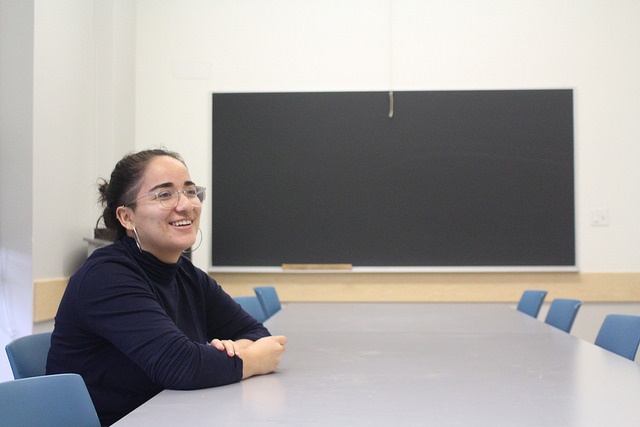
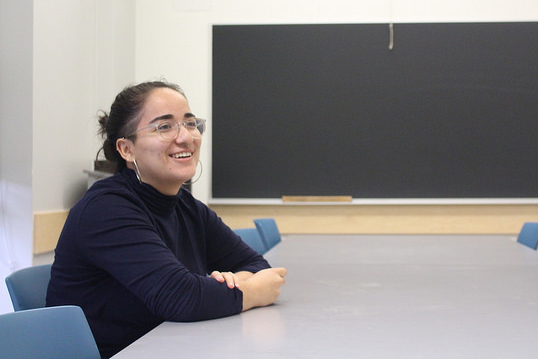
mobile responsiveness, small changes

diff --git a/src/scss/main.scss b/src/scss/main.scss
@@ -26,12 +26,12 @@
   max-width: 600px;
   height: 100%;
   overflow: hidden;
-  margin: 40px auto 0px;
+  margin: 20px auto 0px;
 
   .image {
     position: relative;
-    width: 250px;
-    height: 200px;
+    width: 270px;
+    height: 180px;
     overflow: hidden;
     float: right;
     margin-left: 20px;
@@ -68,16 +68,11 @@
     font-size: 1em;
   }
 
-  .line {
-    width: 100%;
-    height: 0px;
-    border: 0.5px solid black;
-  }
-
   @media screen and (max-width : 650px) {
     .image {
-      width: 400px;
-      height: 300px;
+      width: 100%;
+      box-sizing: border-box;
+      padding-bottom: 66%;
       margin: 20px auto 0;
       display: block;
       float: none;
@@ -98,12 +93,12 @@
   max-width: 600px;
   height: 100%;
   overflow: hidden;
-  margin: 40px auto 0px;
+  margin: 40px auto 40px;
 
   .image {
     position: relative;
-    width: 250px;
-    height: 200px;
+    width: 270px;
+    height: 180px;
     overflow: hidden;
     margin-right: 20px;
     margin-bottom: 5px;
@@ -140,16 +135,11 @@
     font-size: 1em;
   }
 
-  .line {
-    width: 100%;
-    height: 0px;
-    border: 0.5px solid black;
-  }
-
   @media screen and (max-width : 650px) {
     .image {
-      width: 400px;
-      height: 300px;
+      width: 100%;
+      box-sizing: border-box;
+      padding-bottom: 66%;
       margin: 20px auto 0;
       display: block;
       float: none;
@@ -164,6 +154,13 @@
       text-align: center;
     }
   }
+}
+
+.line {
+  max-width: 600px;
+  height: 0px;
+  border: 0.5px solid black;
+  margin: 10px auto 40px;
 }
 
 .google-form {

diff --git a/src/templates/_sections/interview_left.html b/src/templates/_sections/interview_left.html
@@ -9,5 +9,5 @@
 	<p class="quote">{{ section.quote }}</p>
 	<div class="text">{{ section.text | markdown }}</div>
 
-	<div class="line"></div>
 </div>
+<div class="line"></div>

diff --git a/src/templates/_sections/interview_right.html b/src/templates/_sections/interview_right.html
@@ -9,5 +9,5 @@
 	<p class="quote">{{ section.quote }}</p>
 	<div class="text">{{ section.text | markdown }}</div>
 
-	<div class="line"></div>
 </div>
+<div class="line"></div>
